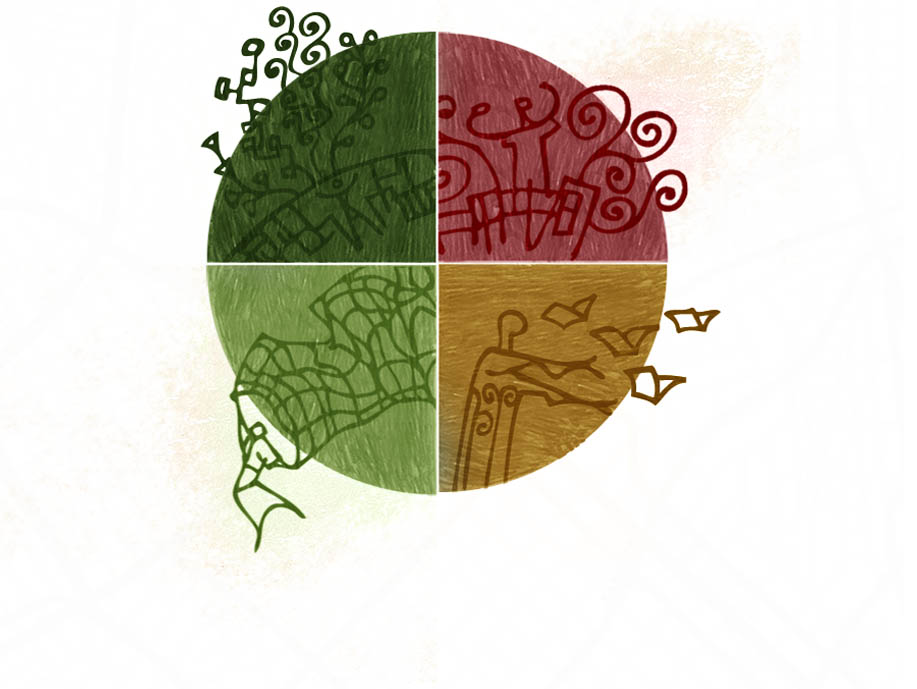
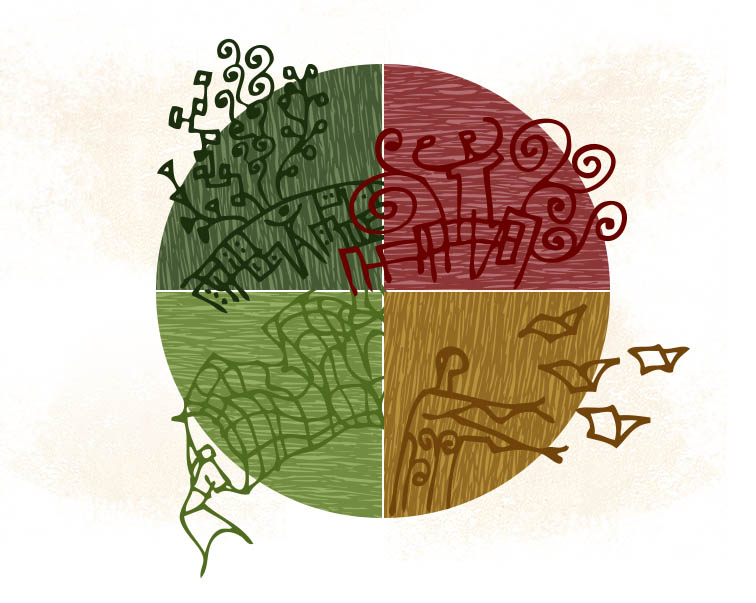
add home animation

diff --git a/style.css b/style.css
@@ -1424,7 +1424,9 @@ conteudo - atuação /pagehome/
 }
 
 .atuacao{
-	background:url("img/home-bg.jpg") bottom no-repeat;
+    background-repeat: no-repeat;
+    background-position: top;
+	background-image:url("img/home-bg.jpg");
 	padding-top: 40px;
 }
 
@@ -1534,6 +1536,43 @@ conteudo - atuação /pagehome/
 }
 .consultoria-alert a:hover {
 	background: #004767;
+}
+/*animation*/
+@keyframes reforma{
+    to {
+        background-image:url("img/home-bg-reforma.jpg");
+    }
+}
+@media only screen and (min-width: 900px) {
+    .hover.hover-reforma {
+        min-height: 250px;
+    }
+    .hover{
+        transition:1s ease all;
+        opacity:0.50;
+    }
+    .hover.active{
+        transition:1s ease all;
+        opacity:1;
+    }
+    .content.atuacao{
+        transition:600ms ease all;
+    }
+    .atuacao .left .inclusao .title{
+        margin-top:0;
+    }
+    .content.atuacao .col-md-6.left {
+        padding:0;
+    }
+    .content.atuacao .col-md-6.right .hover{
+        float: right !important;
+    }
+    .atuacao .title {
+        font-size:1.4em;
+    }
+    .atuacao .right .cidadania .title {
+        margin-top:5px;
+    }
 }
 /* fim da atuação
 slider de noticias + acoes

diff --git a/js/custom.js b/js/custom.js
@@ -817,4 +817,21 @@ jQuery(document).ready(function () {
             }
         }
     });
+    //home animation
+    $( 'body.home .hover' ).on('mouseover', function(e){
+        $elem = $(this);
+        $('body.home .hover.active').removeClass('active');
+        $elem.addClass('active');
+        $('.content.atuacao').css('background-image', 'url('+$elem.attr('data-bg')+')');
+        $('.body.home .hover').each( function(){
+            console.log( 'ao' );
+
+            if ( ! $(this).hasClass('active') ) {
+                $( this ).animate({ opacity: 0.40 }, 2000, function() {});
+            }
+            else {
+                $( this ).animate({ opacity: 1 }, 2000, function() {});
+            }
+        });
+    });
 });

diff --git a/page-home.php b/page-home.php
@@ -24,44 +24,52 @@ get_header(); ?>
         </p>
     </section>
     <section class="col-md-12 content atuacao">
-        <div class="col-md-4 left">
-            <div class="col-md-10 reforma">
-                <p class="title">Reforma Urbana</p>
+        <div class="col-md-6 left">
+            <div class="col-md-12 hover hover-reforma active" data-bg="<?php echo get_template_directory_uri();?>/img/home-bg-reforma.jpg">
+                <img src="<?php echo get_template_directory_uri();?>/img/home-bg-reforma.jpg" style="display:none;">
+                <div class="col-md-7 reforma">
+                    <p class="title">Reforma Urbana</p>
 
-                <div class="col-md-12 description">
-                    <?php echo of_get_option('frase-reformaurbana-home'); ?>
+                    <div class="col-md-12 description">
+                        <?php echo of_get_option('frase-reformaurbana-home'); ?>
+                    </div>
+                    <a class="col-md-5 saiba left text-center" href="<?php echo home_url(); ?>/area/reforma-urbana">Saiba mais</a>
                 </div>
-                <a class="col-md-5 saiba left text-center" href="<?php echo home_url(); ?>/area/reforma-urbana">Saiba mais</a>
-            </div>
-            <div class="col-md-10 inclusao">
-                <p class="title">Inclusão e Sustentabilidade</p>
-
-                <div class="col-md-12 description">
-                    <?php echo of_get_option('frase-inclusao-home'); ?>
+            </div><!-- .col-md-12 hover hover-reforma -->
+            <div class="col-md-12 hover hover-inclusao active" data-bg="<?php echo get_template_directory_uri();?>/img/home-bg-inclusao.jpg">
+                <img src="<?php echo get_template_directory_uri();?>/img/home-bg-inclusao.jpg" style="display:none;">
+                <div class="col-md-7 inclusao">
+                    <p class="title">Inclusão e Sustentabilidade</p>
+                    <div class="col-md-12 description">
+                        <?php echo of_get_option('frase-inclusao-home'); ?>
+                    </div>
+                    <a class="col-md-5 saiba left text-center" href="<?php echo home_url(); ?>/area/inclusao-e-sustentabilidade">Saiba mais</a>
                 </div>
-                <a class="col-md-5 saiba left text-center"
-                   href="<?php echo home_url(); ?>/area/inclusao-e-sustentabilidade">Saiba mais</a>
-            </div>
+            </div><!-- .col-md-12 hover hover-inclusao -->
         </div>
-        <div class="col-md-4 pull-right right">
-            <div class="col-md-10 democracia pull-right right">
-                <p class="title">Democracia e Participação</p>
+        <div class="col-md-6 pull-right right">
+            <div class="hover hover-democracia active" data-bg="<?php echo get_template_directory_uri();?>/img/home-bg-democracia.jpg">
+                <img src="<?php echo get_template_directory_uri();?>/img/home-bg-democracia.jpg" style="display:none;">
+                <div class="col-md-7 democracia pull-right right">
+                    <p class="title">Democracia e Participação</p>
 
-                <p class="description">
-                    <?php echo of_get_option('frase-democracia-home'); ?>
-                </p>
-                <a class="col-md-5 saiba left text-center"
-                   href="<?php echo home_url(); ?>/area/democracia-e-participacao">Saiba mais</a>
-            </div>
-            <div class="col-md-10 cidadania pull-right right">
-                <p class="title">Cidadania Cultural</p>
+                    <p class="description">
+                        <?php echo of_get_option('frase-democracia-home'); ?>
+                    </p>
+                    <a class="col-md-5 saiba left text-center" href="<?php echo home_url(); ?>/area/democracia-e-participacao">Saiba mais</a>
+                </div>
+            </div><!-- .hover hover-democracia -->
+            <div class="hover hover-cidadania active" data-bg="<?php echo get_template_directory_uri();?>/img/home-bg-cidadania.jpg">
+                <img src="<?php echo get_template_directory_uri();?>/img/home-bg-cidadania.jpg" style="display:none;">
+                <div class="col-md-6 cidadania pull-right right">
+                    <p class="title">Cidadania Cultural</p>
 
-                <p class="description">
-                    <?php echo of_get_option('frase-cidadania-home'); ?>
-                </p>
-                <a class="col-md-5 saiba left text-center" href="<?php echo home_url(); ?>/area/cidadania-cultural">Saiba
-                    mais</a>
-            </div>
+                    <p class="description">
+                        <?php echo of_get_option('frase-cidadania-home'); ?>
+                    </p>
+                    <a class="col-md-5 saiba left text-center" href="<?php echo home_url(); ?>/area/cidadania-cultural">Saiba mais</a>
+                </div>
+            </div><!-- .hover hover-cidadania -->
         </div>
         <div class="col-md-12 clear"></div>
         <div class="col-md-10 col-md-offset-1 consultoria-alert">
